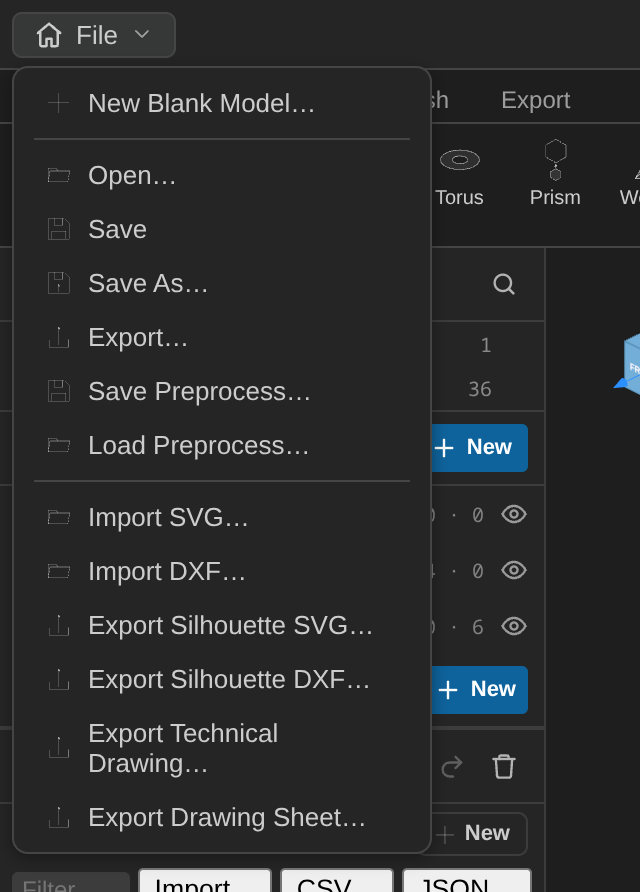
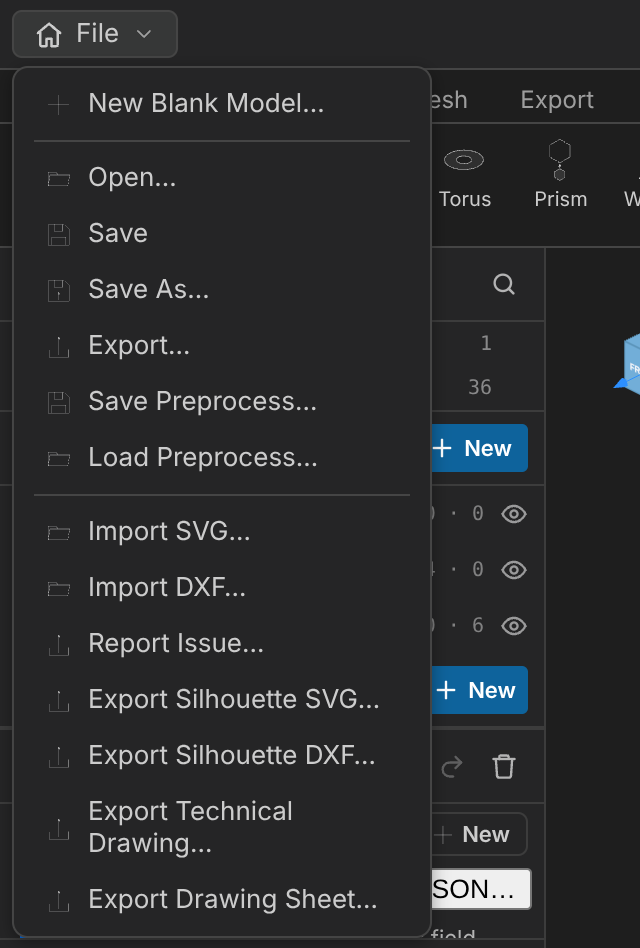
Screenshots: Mass marker toggle, Report Issue menu entry, Suppress ops column; clip fixes
Claude-Session: https://claude.ai/code/session_01DnyVZCZqihJxDQVnoVvYkJ

diff --git a/media/viewer.css b/media/viewer.css
@@ -3111,6 +3111,8 @@ input[type="range"].meshing-slider:focus {
   font-size: var(--ui-fs-sm);
 }
 
+label.mass-marker-toggle { justify-content: flex-start; align-items: center; gap: 6px; cursor: pointer; }
+
 .mass-label {
   opacity: 0.75;
 }
@@ -5522,6 +5524,9 @@ body:has(#side.visible) #kernel-status {
 .config-cell { min-width: 64px; }
 .config-input { width: 64px; min-width: 0; font: inherit; color: inherit; background: transparent; border: 1px solid transparent; border-radius: var(--ui-r-xs); padding: 1px 2px; }
 .config-input::placeholder { opacity: 0.45; }
+.config-suppress { width: 56px; min-width: 0; font: inherit; color: inherit; background: transparent; border: 1px solid transparent; border-radius: var(--ui-r-xs); padding: 1px 2px; }
+.config-suppress:hover { border-color: var(--vscode-input-border, #3c3c3c); }
+.config-suppress:focus { outline: none; background: var(--vscode-input-background, #1e1e1e); border-color: var(--vscode-focusBorder, #007fd4); }
 .config-cell.overridden .config-input { font-weight: 600; }
 .config-value { margin-left: 3px; opacity: 0.65; }
 .config-cell.error .config-value, .config-cell.error .config-input { color: var(--vscode-errorForeground, #f48771); }
